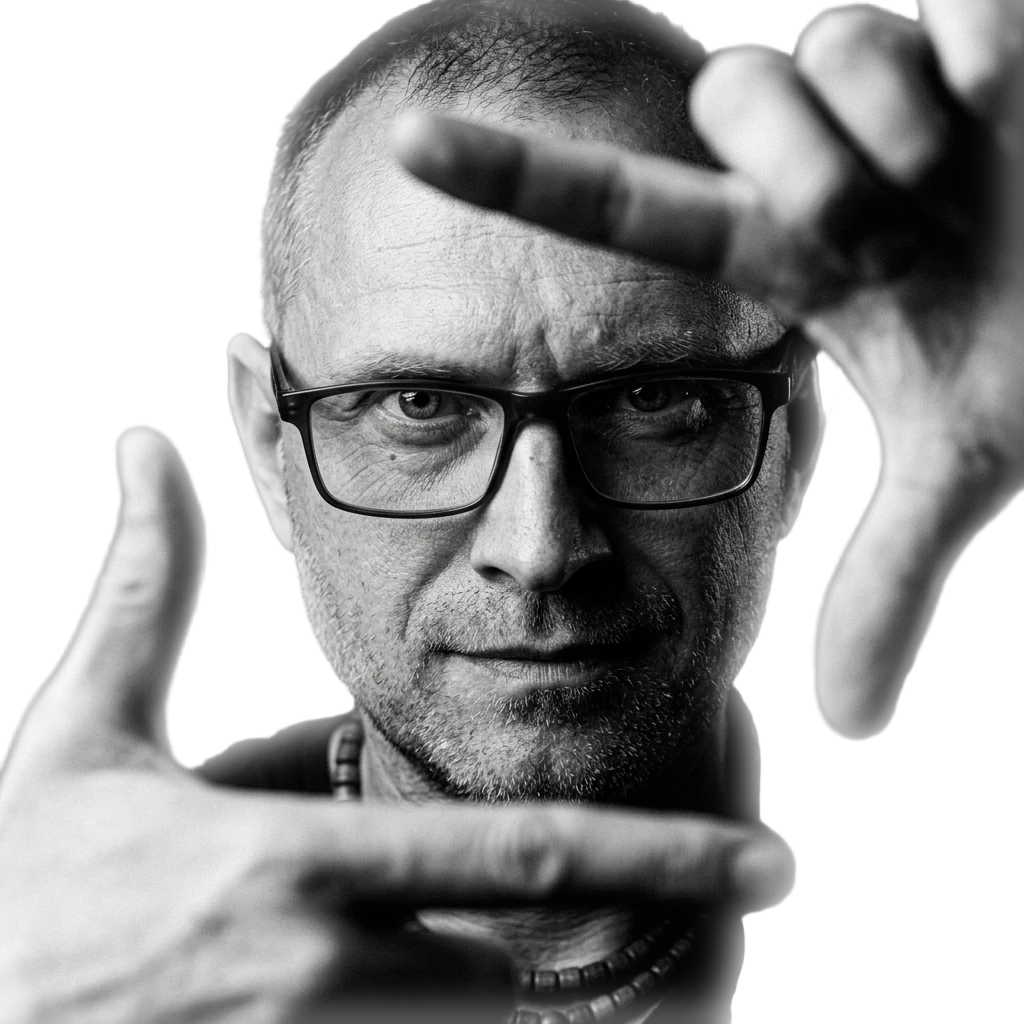
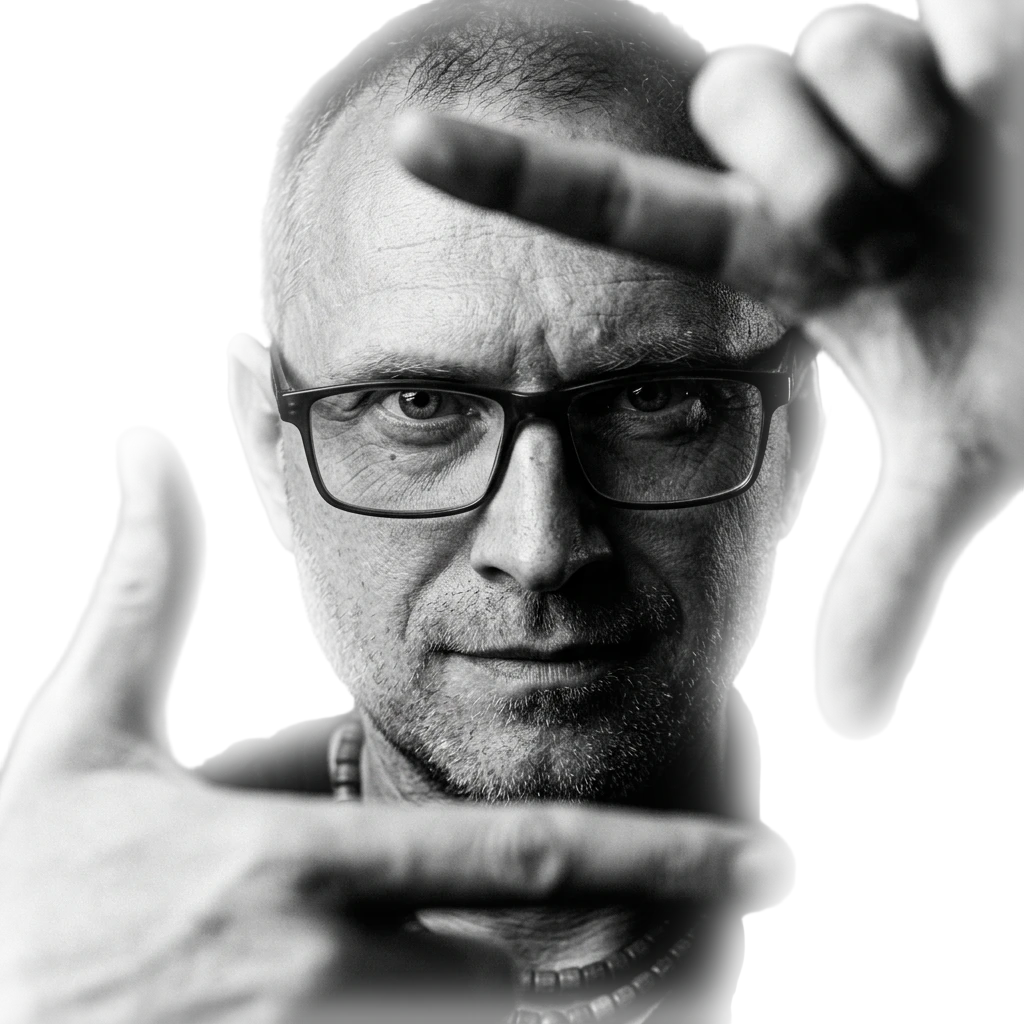
Soft photo edges: ShaderMaterial radial fade + aggressive PNG alpha (55% transition)
- Custom ShaderMaterial with elliptical smoothstep fade (r 0.54→0.24)
- PNG alpha: erode 15px + Gaussian sigma=35 (~100px fade zone, 55% transition)

Claude-Session: https://claude.ai/code/session_01X7KSM4KdRvb3cH9kiQoQVN

diff --git a/museum-app/src/components/Scene3D.jsx b/museum-app/src/components/Scene3D.jsx
@@ -203,15 +203,37 @@ function LoadingSpinner() {
 }
 
 // ── Cutout photo — transparent PNG floating in scene, tracks mouse ────────────
+const PHOTO_VERT = `
+varying vec2 vUv;
+void main() {
+  vUv = uv;
+  gl_Position = projectionMatrix * modelViewMatrix * vec4(position, 1.0);
+}
+`
+const PHOTO_FRAG = `
+uniform sampler2D map;
+varying vec2 vUv;
+void main() {
+  vec4 tex = texture2D(map, vUv);
+  // elliptical radial fade: centre stays opaque, edges dissolve
+  vec2 centered = (vUv - 0.5) * vec2(1.0, 1.15);
+  float r = length(centered);
+  float fade = smoothstep(0.54, 0.24, r);
+  gl_FragColor = vec4(tex.rgb, tex.a * fade);
+}
+`
+
 function PhotoCard({ kf, tilt }) {
   const groupRef = useRef()
   const texture  = useTexture(PHOTO_URL)
 
-  const mat = useMemo(() => new THREE.MeshBasicMaterial({
-    map:        texture,
+  const mat = useMemo(() => new THREE.ShaderMaterial({
+    uniforms:    { map: { value: texture } },
+    vertexShader:   PHOTO_VERT,
+    fragmentShader: PHOTO_FRAG,
     transparent: true,
-    depthWrite: false,
-    side:       THREE.DoubleSide,
+    depthWrite:  false,
+    side:        THREE.DoubleSide,
   }), [texture])
 
   useFrame(({ clock }) => {
